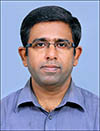
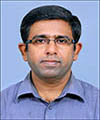
Updating root directory

diff --git a/facultymain/Faculty_Sindhu.html b/facultymain/Faculty_Sindhu.html
@@ -393,13 +393,13 @@
 				<div class="header-middle">
 					<div class="container">
 						<div class="logo hidden-sm hidden-xs">
-							<a href='index.html' title='Go to Homepage' rel='home'><img style="border-radius: 10px;padding-top: 10px;" src='../wp-content/themes/sayidan/images/logo.jpg' alt='Go Home'></a>
+							<a href='../index.html' title='Go to Homepage' rel='home'><img style="border-radius: 10px;padding-top: 10px;" src='../wp-content/themes/sayidan/images/logo.jpg' alt='Go Home'></a>
 						</div>
 
 						<div class="area-desktop-content menu">
 							<nav>
 								<ul class="nav navbar-nav sf-menu">
-									<li id="menu-item-2177" class="menu-item menu-item-type-post_type menu-item-object-page menu-item-has-children menu-item-2177"><a href="index.html">Home</a>
+									<li id="menu-item-2177" class="menu-item menu-item-type-post_type menu-item-object-page menu-item-has-children menu-item-2177"><a href="../index.html">Home</a>
 
 									</li>
 
@@ -409,10 +409,10 @@
 
 									<li id="menu-item-2180" class="menu-item menu-item-type-post_type menu-item-object-page menu-item-has-children menu-item-2180"><a href="#">About Us</a>
 										<ul class="sub-menu">
-											<li id="menu-item-2173" class="menu-item menu-item-type-post_type menu-item-object-page menu-item-2173"><a href="research.html">Research</a></li>
-											<li id="menu-item-2174" class="menu-item menu-item-type-post_type menu-item-object-page menu-item-2174"><a href="facilities/index.html">facilities</a></li>
-											<li id="menu-item-2175" class="menu-item menu-item-type-post_type menu-item-object-page menu-item-2175"><a href="pta.html">PTA</a></li>
-											<li id="menu-item-2176" class="menu-item menu-item-type-post_type menu-item-object-page menu-item-2176"><a href="alumni-home.html">Alumni</a></li>
+											<li id="menu-item-2173" class="menu-item menu-item-type-post_type menu-item-object-page menu-item-2173"><a href="../research.html">Research</a></li>
+											<li id="menu-item-2174" class="menu-item menu-item-type-post_type menu-item-object-page menu-item-2174"><a href="../facilities/index.html">facilities</a></li>
+											<li id="menu-item-2175" class="menu-item menu-item-type-post_type menu-item-object-page menu-item-2175"><a href="../pta.html">PTA</a></li>
+											<li id="menu-item-2176" class="menu-item menu-item-type-post_type menu-item-object-page menu-item-2176"><a href="../alumni-home.html">Alumni</a></li>
 											<!-- <li id="menu-item-1857" class="menu-item menu-item-type-custom menu-item-object-custom menu-item-1857"><a href="../markup-html-tags-and-formatting/index.html">Typography</a></li> -->
 										</ul>
 									</li>
@@ -422,26 +422,26 @@
 
 									</li>
 
-									<li id="menu-item-2179" class="menu-item menu-item-type-post_type menu-item-object-page menu-item-has-children menu-item-2179"><a href="#">People</a>
+									<li id="menu-item-2179" class="menu-item menu-item-type-post_type menu-item-object-page menu-item-has-children menu-item-2179"><a href="../#">People</a>
 										<ul class="sub-menu">
-											<li id="menu-item-2173" class="menu-item menu-item-type-post_type menu-item-object-page menu-item-2173"><a href="facultyhome.html">Faculty</a></li>
-											<li id="menu-item-2174" class="menu-item menu-item-type-post_type menu-item-object-page menu-item-2174"><a href="staff.html">Staff</a></li>
-											<!-- <li id="menu-item-2175" class="menu-item menu-item-type-post_type menu-item-object-page menu-item-2175"><a href="pta.html">PTA</a></li>
-        <li id="menu-item-2176" class="menu-item menu-item-type-post_type menu-item-object-page menu-item-2176"><a href="alumni-home.html">Alumni</a></li> -->
+											<li id="menu-item-2173" class="menu-item menu-item-type-post_type menu-item-object-page menu-item-2173"><a href="../facultyhome.html">Faculty</a></li>
+											<li id="menu-item-2174" class="menu-item menu-item-type-post_type menu-item-object-page menu-item-2174"><a href="../staff.html">Staff</a></li>
+											<!-- <li id="menu-item-2175" class="menu-item menu-item-type-post_type menu-item-object-page menu-item-2175"><a href="../pta.html">PTA</a></li>
+        <li id="menu-item-2176" class="menu-item menu-item-type-post_type menu-item-object-page menu-item-2176"><a href="../alumni-home.html">Alumni</a></li> -->
 											<!-- <li id="menu-item-1857" class="menu-item menu-item-type-custom menu-item-object-custom menu-item-1857"><a href="../markup-html-tags-and-formatting/index.html">Typography</a></li> -->
 										</ul>
 									</li>
 
-									<li id="menu-item-2181" class="menu-item menu-item-type-post_type menu-item-object-page menu-item-has-children menu-item-2181"><a href="university-gallery/index.html">Gallery</a>
+									<li id="menu-item-2181" class="menu-item menu-item-type-post_type menu-item-object-page menu-item-has-children menu-item-2181"><a href="../university-gallery/index.html">Gallery</a>
 										<ul class="sub-menu">
-											<li id="menu-item-2173" class="menu-item menu-item-type-post_type menu-item-object-page menu-item-2173"><a href="#">Archive</a></li>
+											<li id="menu-item-2173" class="menu-item menu-item-type-post_type menu-item-object-page menu-item-2173"><a href="../#">Archive</a></li>
 										</ul>
 									</li>
 
-									<li id="menu-item-2177" class="menu-item menu-item-type-post_type menu-item-object-page menu-item-has-children menu-item-2177"><a href="anti-ragging.html">Anti-Ragging</a>
+									<li id="menu-item-2177" class="menu-item menu-item-type-post_type menu-item-object-page menu-item-has-children menu-item-2177"><a href="../anti-ragging.html">Anti-Ragging</a>
 
 									</li>
-									<li id="menu-item-2177" class="menu-item menu-item-type-post_type menu-item-object-page menu-item-has-children menu-item-2177"><a href="students-corner.html">Student's corner</a>
+									<li id="menu-item-2177" class="menu-item menu-item-type-post_type menu-item-object-page menu-item-has-children menu-item-2177"><a href="../students-corner.html">Student's corner</a>
 
 									</li>
 
@@ -452,7 +452,7 @@
 							<div class="header-container">
 								<div class="row">
 									<div class="logo-mobile ol-md-8">
-										<a href='index.html' title='Go to Homepage' rel='home'><img src='../wp-content/uploads/2016/07/logo-small-3.png' alt='Go Home'></a>
+										<a href='../index.html' title='Go to Homepage' rel='home'><img src='../wp-content/uploads/2016/07/logo-small-3.png' alt='Go Home'></a>
 									</div>
 
 									<div class="col-md-4">
@@ -471,7 +471,7 @@
 										<div id="navbar-mobile" class="navbar-collapse collapse">
 
 											<ul id="menu-main-menu-1" class="nav navbar-mob">
-												<li id="menu-item-2177" class="menu-item menu-item-type-post_type menu-item-object-page menu-item-has-children menu-item-2177"><a href="index.html">Home</a>
+												<li id="menu-item-2177" class="menu-item menu-item-type-post_type menu-item-object-page menu-item-has-children menu-item-2177"><a href="../index.html">Home</a>
 
 												</li>
 
@@ -479,38 +479,38 @@
 
 												</li>
 
-												<li id="menu-item-2180" class="menu-item menu-item-type-post_type menu-item-object-page menu-item-has-children menu-item-2180"><a href="#">About Us</a>
+												<li id="menu-item-2180" class="menu-item menu-item-type-post_type menu-item-object-page menu-item-has-children menu-item-2180"><a href="../#">About Us</a>
 													<ul class="sub-menu">
-														<li id="menu-item-2173" class="menu-item menu-item-type-post_type menu-item-object-page menu-item-2173"><a href="research.html">Research</a></li>
-														<li id="menu-item-2174" class="menu-item menu-item-type-post_type menu-item-object-page menu-item-2174"><a href="facilities/index.html">facilities</a></li>
-														<li id="menu-item-2175" class="menu-item menu-item-type-post_type menu-item-object-page menu-item-2175"><a href="pta.html">PTA</a></li>
-														<li id="menu-item-2176" class="menu-item menu-item-type-post_type menu-item-object-page menu-item-2176"><a href="alumni-home.html">Alumni</a></li>
+														<li id="menu-item-2173" class="menu-item menu-item-type-post_type menu-item-object-page menu-item-2173"><a href="r../esearch.html">Research</a></li>
+														<li id="menu-item-2174" class="menu-item menu-item-type-post_type menu-item-object-page menu-item-2174"><a href="../facilities/index.html">facilities</a></li>
+														<li id="menu-item-2175" class="menu-item menu-item-type-post_type menu-item-object-page menu-item-2175"><a href="../pta.html">PTA</a></li>
+														<li id="menu-item-2176" class="menu-item menu-item-type-post_type menu-item-object-page menu-item-2176"><a href="../alumni-home.html">Alumni</a></li>
 														<!-- <li id="menu-item-1857" class="menu-item menu-item-type-custom menu-item-object-custom menu-item-1857"><a href="../markup-html-tags-and-formatting/index.html">Typography</a></li> -->
 													</ul>
 												</li>
 
 
-												<li id="menu-item-2180" class="menu-item menu-item-type-post_type menu-item-object-page menu-item-has-children menu-item-2180"><a href="academics/index.html">Academic</a>
+												<li id="menu-item-2180" class="menu-item menu-item-type-post_type menu-item-object-page menu-item-has-children menu-item-2180"><a href="../academics/index.html">Academic</a>
 
 												</li>
 
 												<li id="menu-item-2179" class="menu-item menu-item-type-post_type menu-item-object-page menu-item-has-children menu-item-2179"><a href="#">People</a>
 													<ul class="sub-menu">
-														<li id="menu-item-2173" class="menu-item menu-item-type-post_type menu-item-object-page menu-item-2173"><a href="facultyhome.html">Faculty</a></li>
-														<li id="menu-item-2174" class="menu-item menu-item-type-post_type menu-item-object-page menu-item-2174"><a href="staff.html">Staff</a></li>
-														<!-- <li id="menu-item-2175" class="menu-item menu-item-type-post_type menu-item-object-page menu-item-2175"><a href="pta.html">PTA</a></li>
-            <li id="menu-item-2176" class="menu-item menu-item-type-post_type menu-item-object-page menu-item-2176"><a href="alumni-home.html">Alumni</a></li> -->
+														<li id="menu-item-2173" class="menu-item menu-item-type-post_type menu-item-object-page menu-item-2173"><a href="../facultyhome.html">Faculty</a></li>
+														<li id="menu-item-2174" class="menu-item menu-item-type-post_type menu-item-object-page menu-item-2174"><a href="../staff.html">Staff</a></li>
+														<!-- <li id="menu-item-2175" class="menu-item menu-item-type-post_type menu-item-object-page menu-item-2175"><a href="../pta.html">PTA</a></li>
+            <li id="menu-item-2176" class="menu-item menu-item-type-post_type menu-item-object-page menu-item-2176"><a href="../alumni-home.html">Alumni</a></li> -->
 														<!-- <li id="menu-item-1857" class="menu-item menu-item-type-custom menu-item-object-custom menu-item-1857"><a href="../markup-html-tags-and-formatting/index.html">Typography</a></li> -->
 													</ul>
 												</li>
 
-												<li id="menu-item-2181" class="menu-item menu-item-type-post_type menu-item-object-page menu-item-has-children menu-item-2181"><a href="university-gallery/index.html">Gallery</a>
+												<li id="menu-item-2181" class="menu-item menu-item-type-post_type menu-item-object-page menu-item-has-children menu-item-2181"><a href="../university-gallery/index.html">Gallery</a>
 
 												</li>
-												<li id="menu-item-2177" class="menu-item menu-item-type-post_type menu-item-object-page menu-item-has-children menu-item-2177"><a href="anti-ragging.html">Anti-Ragging</a>
+												<li id="menu-item-2177" class="menu-item menu-item-type-post_type menu-item-object-page menu-item-has-children menu-item-2177"><a href="../anti-ragging.html">Anti-Ragging</a>
 
 												</li>
-												<li id="menu-item-2177" class="menu-item menu-item-type-post_type menu-item-object-page menu-item-has-children menu-item-2177"><a href="students-corner.html">Student's corner</a>
+												<li id="menu-item-2177" class="menu-item menu-item-type-post_type menu-item-object-page menu-item-has-children menu-item-2177"><a href="../students-corner.html">Student's corner</a>
 
 												</li>
 											</ul>
@@ -558,7 +558,7 @@
 													<i class="um-faicon-camera"></i>
 												</ins>
 											</span>
-										</span><img src="../wp-content/uploads/ultimatemember/12/s.jpeg" class="gravatar avatar avatar-190 um-avatar um-avatar-uploaded" width="190" height="190" alt=""
+										</span><img src="../wp-content/uploads/ultimatemember/12/sindhu.jpeg" class="gravatar avatar avatar-190 um-avatar um-avatar-uploaded" width="190" height="190" alt=""
 											data-default="https://sayidan.kenzap.com/../wp-content/plugins/ultimate-member/assets/img/default_avatar.jpg"
 											onerror="if ( ! this.getAttribute('data-load-error') ){ this.setAttribute('data-load-error', '1');this.setAttribute('src', this.getAttribute('data-default'));}" /> </a>
 
@@ -594,13 +594,14 @@
 										<div class="um-meta-text">
 											<a href="#um_field_2012_field101">
 												Research
-											</a> |
+											</a>|
 											<a href="#um_field_2012_field102">
 												Publications
-											</a> |
-											<a href="#um_field_2012_field103">
-												Presentations and Talks
 											</a>|
+											<!--
+										<a href="#um_field_2012_field103">
+												Presentations and Talks
+											</a> -->
 											<a href="#um_field_2012_field104">
 												Teaching
 											</a>|
@@ -805,20 +806,20 @@
 									<div class="col-sm-4 col-xs-12 menu-item menu-item-type-post_type menu-item-object-page menu-item-home current-menu-item page_item page-item-2146 current_page_item menu-item-has-children">
 										<h6 class="heading-bold"></h6>
 										<ul class="list-unstyled no-margin sub-menu menu-odd  menu-depth-1">
-											<li class="menu-item menu-item-type-post_type menu-item-object-page"><a href="student-directory/index.html" class="menu-link sub-menu-link">the University</a>
-											<li class="menu-item menu-item-type-post_type menu-item-object-page"><a href="about.html" class="menu-link sub-menu-link">Faculty</a>
-											<li class="menu-item menu-item-type-post_type menu-item-object-page"><a href="university-gallery/index.html" class="menu-link sub-menu-link">Students</a>
-											<li class="menu-item menu-item-type-post_type menu-item-object-page"><a href="news-builder/index.html" class="menu-link sub-menu-link">Gallery</a>
+											<li class="menu-item menu-item-type-post_type menu-item-object-page"><a href="../student-directory/index.html" class="menu-link sub-menu-link">the University</a>
+											<li class="menu-item menu-item-type-post_type menu-item-object-page"><a href="../about.html" class="menu-link sub-menu-link">Faculty</a>
+											<li class="menu-item menu-item-type-post_type menu-item-object-page"><a href="../university-gallery/index.html" class="menu-link sub-menu-link">Students</a>
+											<li class="menu-item menu-item-type-post_type menu-item-object-page"><a href="../news-builder/index.html" class="menu-link sub-menu-link">Gallery</a>
 										</ul>
 									</div>
 
 									<div class="col-sm-4 col-xs-12 menu-item menu-item-type-post_type menu-item-object-page menu-item-has-children">
 										<h6 class="heading-bold"></h6>
 										<ul class="list-unstyled no-margin sub-menu menu-odd  menu-depth-1">
-											<li class="menu-item menu-item-type-post_type menu-item-object-page"><a href="contact-us/index.html" class="menu-link sub-menu-link">Alumni</a>
-											<li class="menu-item menu-item-type-post_type menu-item-object-page"><a href="career-opportunity/index.html" class="menu-link sub-menu-link">About US</a>
-											<li class="menu-item menu-item-type-post_type menu-item-object-page"><a href="about.html" class="menu-link sub-menu-link">Contact Us</a>
-											<li class="menu-item menu-item-type-post_type menu-item-object-page"><a href="apply-to-job/index.html" class="menu-link sub-menu-link">News</a>
+											<li class="menu-item menu-item-type-post_type menu-item-object-page"><a href="../contact-us/index.html" class="menu-link sub-menu-link">Alumni</a>
+											<li class="menu-item menu-item-type-post_type menu-item-object-page"><a href="../career-opportunity/index.html" class="menu-link sub-menu-link">About US</a>
+											<li class="menu-item menu-item-type-post_type menu-item-object-page"><a href="../about.html" class="menu-link sub-menu-link">Contact Us</a>
+											<li class="menu-item menu-item-type-post_type menu-item-object-page"><a href="../apply-to-job/index.html" class="menu-link sub-menu-link">News</a>
 										</ul>
 									</div>
 

diff --git a/facultymain/faculty1.html b/facultymain/faculty1.html
@@ -131,13 +131,13 @@ img.emoji {
 						<div class="header-middle">
 								<div class="container">
 																				<div class="logo hidden-sm hidden-xs">
-												<a href='index.html' title='Go to Homepage' rel='home'><img style="border-radius: 10px;padding-top: 10px;"src='../wp-content/themes/sayidan/images/logo.jpg' alt='Go Home'></a>
+												<a href='../index.html' title='Go to Homepage' rel='home'><img style="border-radius: 10px;padding-top: 10px;"src='../wp-content/themes/sayidan/images/logo.jpg' alt='Go Home'></a>
 										</div>
 
 										<div class="area-desktop-content menu">
 												<nav>
 														<ul class="nav navbar-nav sf-menu">
-																<li id="menu-item-2177" class="menu-item menu-item-type-post_type menu-item-object-page menu-item-has-children menu-item-2177"><a href="index.html">Home</a>
+																<li id="menu-item-2177" class="menu-item menu-item-type-post_type menu-item-object-page menu-item-has-children menu-item-2177"><a href="../index.html">Home</a>
 
 																</li>
 
@@ -145,40 +145,40 @@ img.emoji {
 
 	</li>
 
-	<li id="menu-item-2180" class="menu-item menu-item-type-post_type menu-item-object-page menu-item-has-children menu-item-2180"><a href="#">About Us</a>
+	<li id="menu-item-2180" class="menu-item menu-item-type-post_type menu-item-object-page menu-item-has-children menu-item-2180"><a href="../#">About Us</a>
 		<ul class="sub-menu">
-				<li id="menu-item-2173" class="menu-item menu-item-type-post_type menu-item-object-page menu-item-2173"><a href="research.html">Research</a></li>
-				<li id="menu-item-2174" class="menu-item menu-item-type-post_type menu-item-object-page menu-item-2174"><a href="facilities/index.html">facilities</a></li>
-				<li id="menu-item-2175" class="menu-item menu-item-type-post_type menu-item-object-page menu-item-2175"><a href="pta.html">PTA</a></li>
-				<li id="menu-item-2176" class="menu-item menu-item-type-post_type menu-item-object-page menu-item-2176"><a href="alumni-home.html">Alumni</a></li>
+				<li id="menu-item-2173" class="menu-item menu-item-type-post_type menu-item-object-page menu-item-2173"><a href="../research.html">Research</a></li>
+				<li id="menu-item-2174" class="menu-item menu-item-type-post_type menu-item-object-page menu-item-2174"><a href="../facilities/index.html">facilities</a></li>
+				<li id="menu-item-2175" class="menu-item menu-item-type-post_type menu-item-object-page menu-item-2175"><a href="../pta.html">PTA</a></li>
+				<li id="menu-item-2176" class="menu-item menu-item-type-post_type menu-item-object-page menu-item-2176"><a href="../alumni-home.html">Alumni</a></li>
 				<!-- <li id="menu-item-1857" class="menu-item menu-item-type-custom menu-item-object-custom menu-item-1857"><a href="../markup-html-tags-and-formatting/index.html">Typography</a></li> -->
 		</ul>
 	</li>
 
 
-	<li id="menu-item-2180" class="menu-item menu-item-type-post_type menu-item-object-page menu-item-has-children menu-item-2180"><a href="academics/index.html">Academic</a>
+	<li id="menu-item-2180" class="menu-item menu-item-type-post_type menu-item-object-page menu-item-has-children menu-item-2180"><a href="../academics/index.html">Academic</a>
 
 		</li>
 
-	<li id="menu-item-2179" class="menu-item menu-item-type-post_type menu-item-object-page menu-item-has-children menu-item-2179"><a href="#">People</a>
+	<li id="menu-item-2179" class="menu-item menu-item-type-post_type menu-item-object-page menu-item-has-children menu-item-2179"><a href="../#">People</a>
 		<ul class="sub-menu">
-				<li id="menu-item-2173" class="menu-item menu-item-type-post_type menu-item-object-page menu-item-2173"><a href="facultyhome.html">Faculty</a></li>
-				<li id="menu-item-2174" class="menu-item menu-item-type-post_type menu-item-object-page menu-item-2174"><a href="staff.html">Staff</a></li>
+				<li id="menu-item-2173" class="menu-item menu-item-type-post_type menu-item-object-page menu-item-2173"><a href="../facultyhome.html">Faculty</a></li>
+				<li id="menu-item-2174" class="menu-item menu-item-type-post_type menu-item-object-page menu-item-2174"><a href="../staff.html">Staff</a></li>
 				<!-- <li id="menu-item-2175" class="menu-item menu-item-type-post_type menu-item-object-page menu-item-2175"><a href="pta.html">PTA</a></li>
 				<li id="menu-item-2176" class="menu-item menu-item-type-post_type menu-item-object-page menu-item-2176"><a href="alumni-home.html">Alumni</a></li> -->
 				<!-- <li id="menu-item-1857" class="menu-item menu-item-type-custom menu-item-object-custom menu-item-1857"><a href="../markup-html-tags-and-formatting/index.html">Typography</a></li> -->
 		</ul>
 	</li>
 
-	<li id="menu-item-2181" class="menu-item menu-item-type-post_type menu-item-object-page menu-item-has-children menu-item-2181"><a href="university-gallery/index.html">Gallery</a>
+	<li id="menu-item-2181" class="menu-item menu-item-type-post_type menu-item-object-page menu-item-has-children menu-item-2181"><a href="../university-gallery/index.html">Gallery</a>
 	<ul class="sub-menu">
-		<li id="menu-item-2173" class="menu-item menu-item-type-post_type menu-item-object-page menu-item-2173"><a href="#">Archive</a></li>
+		<li id="menu-item-2173" class="menu-item menu-item-type-post_type menu-item-object-page menu-item-2173"><a href="../#">Archive</a></li>
 	</ul></li>
 
-	<li id="menu-item-2177" class="menu-item menu-item-type-post_type menu-item-object-page menu-item-has-children menu-item-2177"><a href="anti-ragging.html">Anti-Ragging</a>
+	<li id="menu-item-2177" class="menu-item menu-item-type-post_type menu-item-object-page menu-item-has-children menu-item-2177"><a href="../anti-ragging.html">Anti-Ragging</a>
 
 	</li>
-	<li id="menu-item-2177" class="menu-item menu-item-type-post_type menu-item-object-page menu-item-has-children menu-item-2177"><a href="students-corner.html">Student's corner</a>
+	<li id="menu-item-2177" class="menu-item menu-item-type-post_type menu-item-object-page menu-item-has-children menu-item-2177"><a href="../students-corner.html">Student's corner</a>
 
 	</li>
 
@@ -189,7 +189,7 @@ img.emoji {
 												<div class="header-container">
 														<div class="row">
 																<div class="logo-mobile ol-md-8">
-																		<a href='index.html' title='Go to Homepage' rel='home'><img src='../wp-content/uploads/2016/07/logo-small-3.png' alt='Go Home'></a>
+																		<a href='../index.html' title='Go to Homepage' rel='home'><img src='../wp-content/uploads/2016/07/logo-small-3.png' alt='Go Home'></a>
 																</div>
 
 																<div class="col-md-4">
@@ -208,7 +208,7 @@ img.emoji {
 																<div id="navbar-mobile" class="navbar-collapse collapse">
 
 																	<ul id="menu-main-menu-1" class="nav navbar-mob">
-																		<li id="menu-item-2177" class="menu-item menu-item-type-post_type menu-item-object-page menu-item-has-children menu-item-2177"><a href="index.html">Home</a>
+																		<li id="menu-item-2177" class="menu-item menu-item-type-post_type menu-item-object-page menu-item-has-children menu-item-2177"><a href="../index.html">Home</a>
 
 																		</li>
 
@@ -216,38 +216,38 @@ img.emoji {
 
 		</li>
 
-		<li id="menu-item-2180" class="menu-item menu-item-type-post_type menu-item-object-page menu-item-has-children menu-item-2180"><a href="#">About Us</a>
+		<li id="menu-item-2180" class="menu-item menu-item-type-post_type menu-item-object-page menu-item-has-children menu-item-2180"><a href="../#">About Us</a>
 				<ul class="sub-menu">
-						<li id="menu-item-2173" class="menu-item menu-item-type-post_type menu-item-object-page menu-item-2173"><a href="research.html">Research</a></li>
-						<li id="menu-item-2174" class="menu-item menu-item-type-post_type menu-item-object-page menu-item-2174"><a href="facilities/index.html">facilities</a></li>
-						<li id="menu-item-2175" class="menu-item menu-item-type-post_type menu-item-object-page menu-item-2175"><a href="pta.html">PTA</a></li>
-						<li id="menu-item-2176" class="menu-item menu-item-type-post_type menu-item-object-page menu-item-2176"><a href="alumni-home.html">Alumni</a></li>
+						<li id="menu-item-2173" class="menu-item menu-item-type-post_type menu-item-object-page menu-item-2173"><a href="../research.html">Research</a></li>
+						<li id="menu-item-2174" class="menu-item menu-item-type-post_type menu-item-object-page menu-item-2174"><a href="../facilities/index.html">facilities</a></li>
+						<li id="menu-item-2175" class="menu-item menu-item-type-post_type menu-item-object-page menu-item-2175"><a href="../pta.html">PTA</a></li>
+						<li id="menu-item-2176" class="menu-item menu-item-type-post_type menu-item-object-page menu-item-2176"><a href="../alumni-home.html">Alumni</a></li>
 						<!-- <li id="menu-item-1857" class="menu-item menu-item-type-custom menu-item-object-custom menu-item-1857"><a href="../markup-html-tags-and-formatting/index.html">Typography</a></li> -->
 				</ul>
 		</li>
 
 
-		<li id="menu-item-2180" class="menu-item menu-item-type-post_type menu-item-object-page menu-item-has-children menu-item-2180"><a href="academics/index.html">Academic</a>
+		<li id="menu-item-2180" class="menu-item menu-item-type-post_type menu-item-object-page menu-item-has-children menu-item-2180"><a href="../academics/index.html">Academic</a>
 
 				</li>
 
-		<li id="menu-item-2179" class="menu-item menu-item-type-post_type menu-item-object-page menu-item-has-children menu-item-2179"><a href="#">People</a>
+		<li id="menu-item-2179" class="menu-item menu-item-type-post_type menu-item-object-page menu-item-has-children menu-item-2179"><a href="../#">People</a>
 				<ul class="sub-menu">
-						<li id="menu-item-2173" class="menu-item menu-item-type-post_type menu-item-object-page menu-item-2173"><a href="facultyhome.html">Faculty</a></li>
-						<li id="menu-item-2174" class="menu-item menu-item-type-post_type menu-item-object-page menu-item-2174"><a href="staff.html">Staff</a></li>
+						<li id="menu-item-2173" class="menu-item menu-item-type-post_type menu-item-object-page menu-item-2173"><a href="../facultyhome.html">Faculty</a></li>
+						<li id="menu-item-2174" class="menu-item menu-item-type-post_type menu-item-object-page menu-item-2174"><a href="../staff.html">Staff</a></li>
 						<!-- <li id="menu-item-2175" class="menu-item menu-item-type-post_type menu-item-object-page menu-item-2175"><a href="pta.html">PTA</a></li>
 						<li id="menu-item-2176" class="menu-item menu-item-type-post_type menu-item-object-page menu-item-2176"><a href="alumni-home.html">Alumni</a></li> -->
 						<!-- <li id="menu-item-1857" class="menu-item menu-item-type-custom menu-item-object-custom menu-item-1857"><a href="../markup-html-tags-and-formatting/index.html">Typography</a></li> -->
 				</ul>
 		</li>
 
-		<li id="menu-item-2181" class="menu-item menu-item-type-post_type menu-item-object-page menu-item-has-children menu-item-2181"><a href="university-gallery/index.html">Gallery</a>
+		<li id="menu-item-2181" class="menu-item menu-item-type-post_type menu-item-object-page menu-item-has-children menu-item-2181"><a href="../university-gallery/index.html">Gallery</a>
 
 		</li>
-		<li id="menu-item-2177" class="menu-item menu-item-type-post_type menu-item-object-page menu-item-has-children menu-item-2177"><a href="anti-ragging.html">Anti-Ragging</a>
+		<li id="menu-item-2177" class="menu-item menu-item-type-post_type menu-item-object-page menu-item-has-children menu-item-2177"><a href="../anti-ragging.html">Anti-Ragging</a>
 
 		</li>
-		<li id="menu-item-2177" class="menu-item menu-item-type-post_type menu-item-object-page menu-item-has-children menu-item-2177"><a href="students-corner.html">Student's corner</a>
+		<li id="menu-item-2177" class="menu-item menu-item-type-post_type menu-item-object-page menu-item-has-children menu-item-2177"><a href="../students-corner.html">Student's corner</a>
 
 		</li>
 																			</ul>
@@ -599,7 +599,7 @@ img.emoji {
 					<div class="col-md-4 col-sm-12 col-xs-12 animated footer-col">
 						<div class="contact-footer">
 							<div class="logo-footer">
-								<a href='index.html' title='Go to Homepage' rel='home'><img src='../wp-content/uploads/FooterLogo.png' alt='Go to Homepage'></a>
+								<a href='../index.html' title='Go to Homepage' rel='home'><img src='../wp-content/uploads/FooterLogo.png' alt='Go to Homepage'></a>
 							</div>
 							<div class="contact-desc">
 								<p class="text-light">Cochin University of Science and Technology
@@ -623,20 +623,20 @@ img.emoji {
 								<div class="col-sm-4 col-xs-12 menu-item menu-item-type-post_type menu-item-object-page menu-item-home current-menu-item page_item page-item-2146 current_page_item menu-item-has-children">
 									<h6 class="heading-bold"></h6>
 									<ul class="list-unstyled no-margin sub-menu menu-odd  menu-depth-1">
-										<li class="menu-item menu-item-type-post_type menu-item-object-page"><a href="student-directory/index.html" class="menu-link sub-menu-link">the University</a>
-										<li class="menu-item menu-item-type-post_type menu-item-object-page"><a href="about.html" class="menu-link sub-menu-link">Faculty</a>
-										<li class="menu-item menu-item-type-post_type menu-item-object-page"><a href="university-gallery/index.html" class="menu-link sub-menu-link">Students</a>
-										<li class="menu-item menu-item-type-post_type menu-item-object-page"><a href="news-builder/index.html" class="menu-link sub-menu-link">Gallery</a>
+										<li class="menu-item menu-item-type-post_type menu-item-object-page"><a href="../student-directory/index.html" class="menu-link sub-menu-link">the University</a>
+										<li class="menu-item menu-item-type-post_type menu-item-object-page"><a href="../about.html" class="menu-link sub-menu-link">Faculty</a>
+										<li class="menu-item menu-item-type-post_type menu-item-object-page"><a href="../university-gallery/index.html" class="menu-link sub-menu-link">Students</a>
+										<li class="menu-item menu-item-type-post_type menu-item-object-page"><a href="../news-builder/index.html" class="menu-link sub-menu-link">Gallery</a>
 									</ul>
 								</div>
 
 								<div class="col-sm-4 col-xs-12 menu-item menu-item-type-post_type menu-item-object-page menu-item-has-children">
 									<h6 class="heading-bold"></h6>
 									<ul class="list-unstyled no-margin sub-menu menu-odd  menu-depth-1">
-										<li class="menu-item menu-item-type-post_type menu-item-object-page"><a href="contact-us/index.html" class="menu-link sub-menu-link">Alumni</a>
-										<li class="menu-item menu-item-type-post_type menu-item-object-page"><a href="career-opportunity/index.html" class="menu-link sub-menu-link">About US</a>
-										<li class="menu-item menu-item-type-post_type menu-item-object-page"><a href="about.html" class="menu-link sub-menu-link">Contact Us</a>
-										<li class="menu-item menu-item-type-post_type menu-item-object-page"><a href="apply-to-job/index.html" class="menu-link sub-menu-link">News</a>
+										<li class="menu-item menu-item-type-post_type menu-item-object-page"><a href="../contact-us/index.html" class="menu-link sub-menu-link">Alumni</a>
+										<li class="menu-item menu-item-type-post_type menu-item-object-page"><a href="../career-opportunity/index.html" class="menu-link sub-menu-link">About US</a>
+										<li class="menu-item menu-item-type-post_type menu-item-object-page"><a href="../about.html" class="menu-link sub-menu-link">Contact Us</a>
+										<li class="menu-item menu-item-type-post_type menu-item-object-page"><a href="../apply-to-job/index.html" class="menu-link sub-menu-link">News</a>
 									</ul>
 								</div>
 
